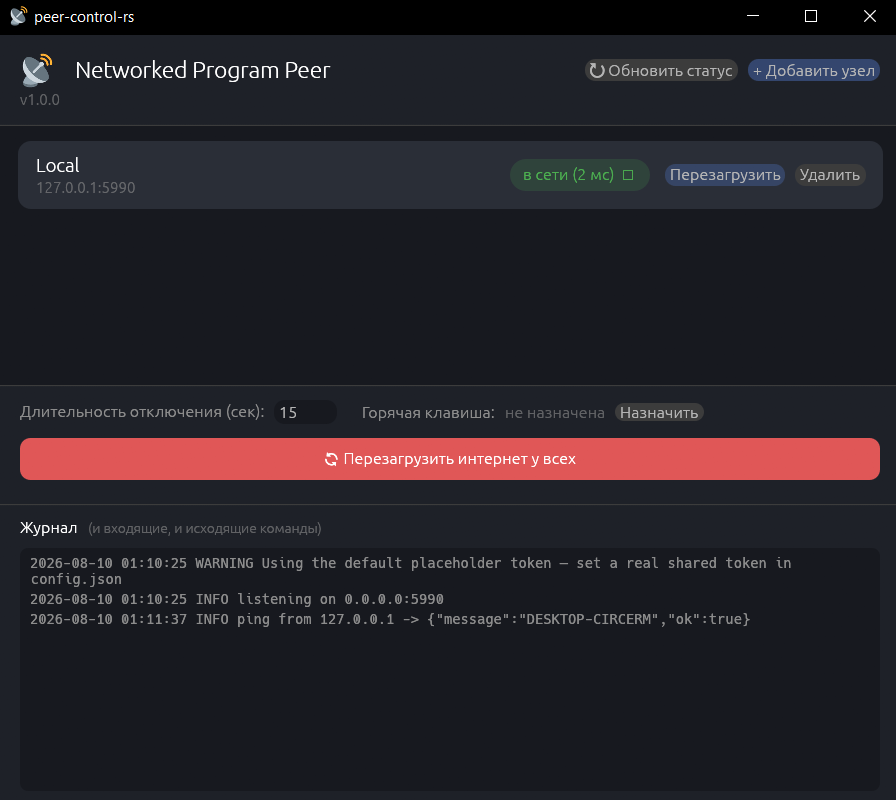
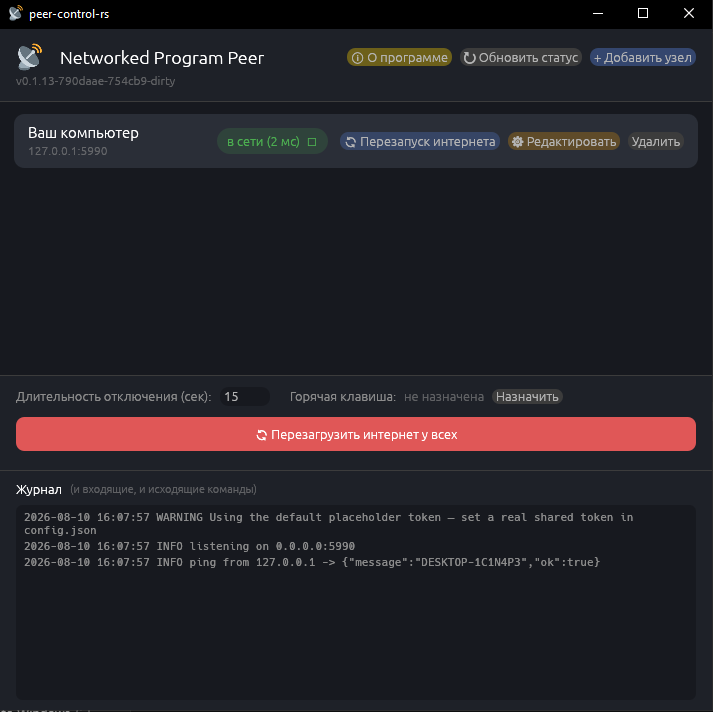
feat: Добавлена кнопка информации о программе и спонсорах. Обновлён README.md

diff --git a/src/app.rs b/src/app.rs
@@ -45,6 +45,7 @@ pub struct PeerApp {
     hotkey_active_id: Arc<Mutex<Option<u32>>>,
     hotkey_capture: Option<HotkeyCapture>,
     toasts: Vec<Toast>,
+    show_about: bool,
 }
 
 impl PeerApp {
@@ -128,6 +129,7 @@ impl PeerApp {
             hotkey_active_id,
             hotkey_capture: None,
             toasts: Vec::new(),
+            show_about: false,
         };
         if let Some(error) = startup_error {
             app.errors.push(error);
@@ -364,9 +366,10 @@ impl PeerApp {
                                 egui::Button::new("⚙ Редактировать")
                                     .fill(Color32::ORANGE.linear_multiply(0.25)),
                             )
-                            .clicked() {
-                                self.add_dialog = Some(AddDialog::edit(name, &peer));
-                            }
+                            .clicked()
+                        {
+                            self.add_dialog = Some(AddDialog::edit(name, &peer));
+                        }
                         if ui
                             .add(
                                 egui::Button::new("🔄 Перезапуск интернета")
@@ -534,6 +537,65 @@ impl PeerApp {
             self.confirm_remove = None;
         } else if close {
             self.confirm_remove = None;
+        }
+    }
+
+    fn show_about_dialog(&mut self, ctx: &egui::Context) {
+        if !self.show_about {
+            return;
+        }
+        let mut close = false;
+
+        egui::Modal::new(egui::Id::new("about_modal")).show(ctx, |ui| {
+            ui.set_min_width(320.0);
+            ui.horizontal(|ui| {
+                ui.add(egui::Image::new((
+                    self.icon_texture.id(),
+                    egui::vec2(28.0, 28.0),
+                )));
+                ui.add_space(8.0);
+                ui.heading("Networked Program Peer");
+            });
+            ui.label(RichText::new(env!("APP_VERSION")).weak().size(12.0));
+            ui.add_space(10.0);
+
+            ui.label(RichText::new("Автор").strong());
+            ui.label("Discord: schrodinger71");
+            ui.add_space(10.0);
+
+            ui.label(RichText::new("Спонсоры").strong());
+            ui.label("Anagirii — Discord: anagiri");
+            ui.hyperlink_to("GitHub: Anagirii", "https://github.com/Anagirii");
+            ui.add_space(10.0);
+
+            ui.label(RichText::new("Лицензия").strong());
+            ui.label("AGPL-3.0-or-later");
+            ui.add_space(10.0);
+
+            ui.hyperlink_to(
+                "GitHub: Schrodinger71/peer-control-rs",
+                "https://github.com/Schrodinger71/peer-control-rs",
+            );
+            ui.add_space(10.0);
+
+            ui.label(
+                RichText::new(
+                    "Проект сделан в учебных целях. Автор не несёт ответственности \
+                    за любые последствия использования этой программы, включая ущерб, \
+                    причинённый её работой самому пользователю или третьим лицам.",
+                )
+                .color(ui.visuals().weak_text_color())
+                .size(11.0),
+            );
+
+            ui.add_space(12.0);
+            if ui.button("Закрыть").clicked() {
+                close = true;
+            }
+        });
+
+        if close {
+            self.show_about = false;
         }
     }
 
@@ -712,6 +774,15 @@ impl eframe::App for PeerApp {
                         if ui.button("↻ Обновить статус").clicked() {
                             self.refresh_all_statuses();
                         }
+                        if ui
+                            .add(
+                                egui::Button::new("ℹ О программе")
+                                    .fill(Color32::GOLD.linear_multiply(0.35)),
+                            )
+                            .clicked()
+                        {
+                            self.show_about = true;
+                        }
                     });
                 });
                 ui.label(RichText::new(env!("APP_VERSION")).weak().size(12.0));
@@ -798,6 +869,7 @@ impl eframe::App for PeerApp {
         self.show_add_dialog(&ctx);
         self.show_confirm_remove(&ctx);
         self.show_hotkey_capture(&ctx);
+        self.show_about_dialog(&ctx);
         self.show_error_dialog(&ctx);
         self.show_toasts(&ctx);
     }

diff --git a/README.md b/README.md
@@ -66,4 +66,17 @@ v3.0](LICENSE) (AGPL-3.0).
 
 ## Автор
 
-Discord: schrodinger71
+<img src="https://github.com/Schrodinger71.png" width="60" height="60" alt="Schrodinger71" align="left" style="border-radius:50%; margin-right:10px">
+
+[**Schrodinger71**](https://github.com/Anagirii) — Discord: schrodinger
+
+<br clear="left">
+
+## Спонсоры
+
+<img src="https://github.com/Anagirii.png" width="60" height="60" alt="Anagirii" align="left" style="border-radius:50%; margin-right:10px">
+
+[**Anagirii**](https://github.com/Anagirii) — Discord: anagiri
+
+<br clear="left">
+
